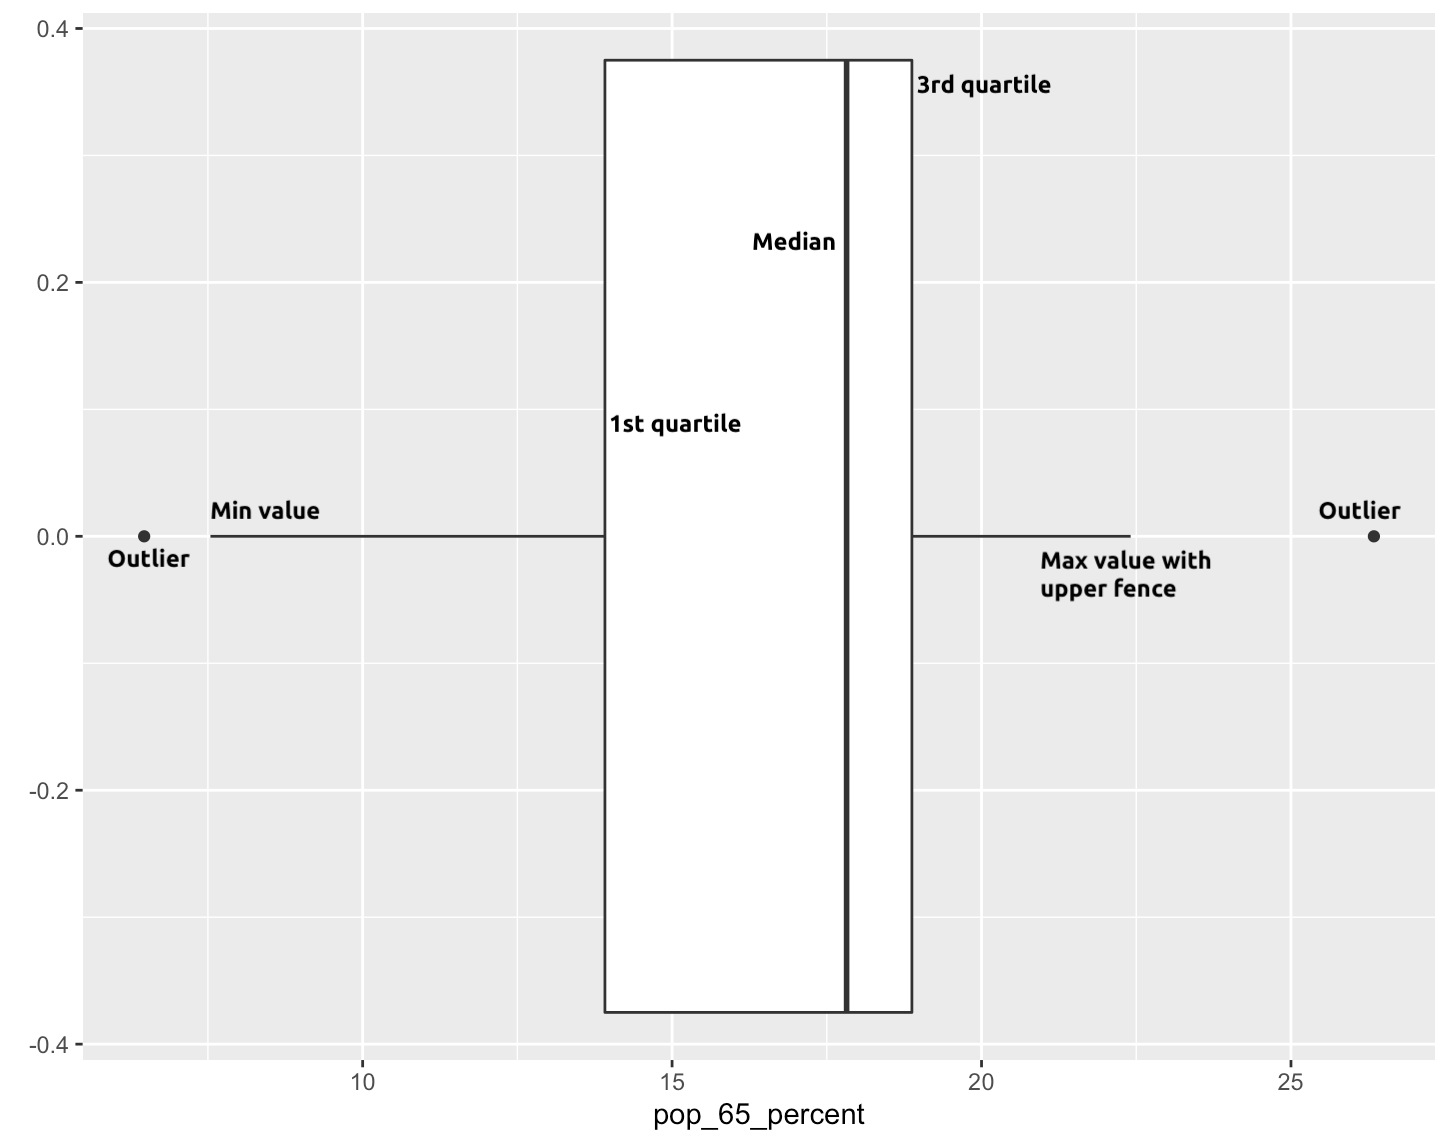
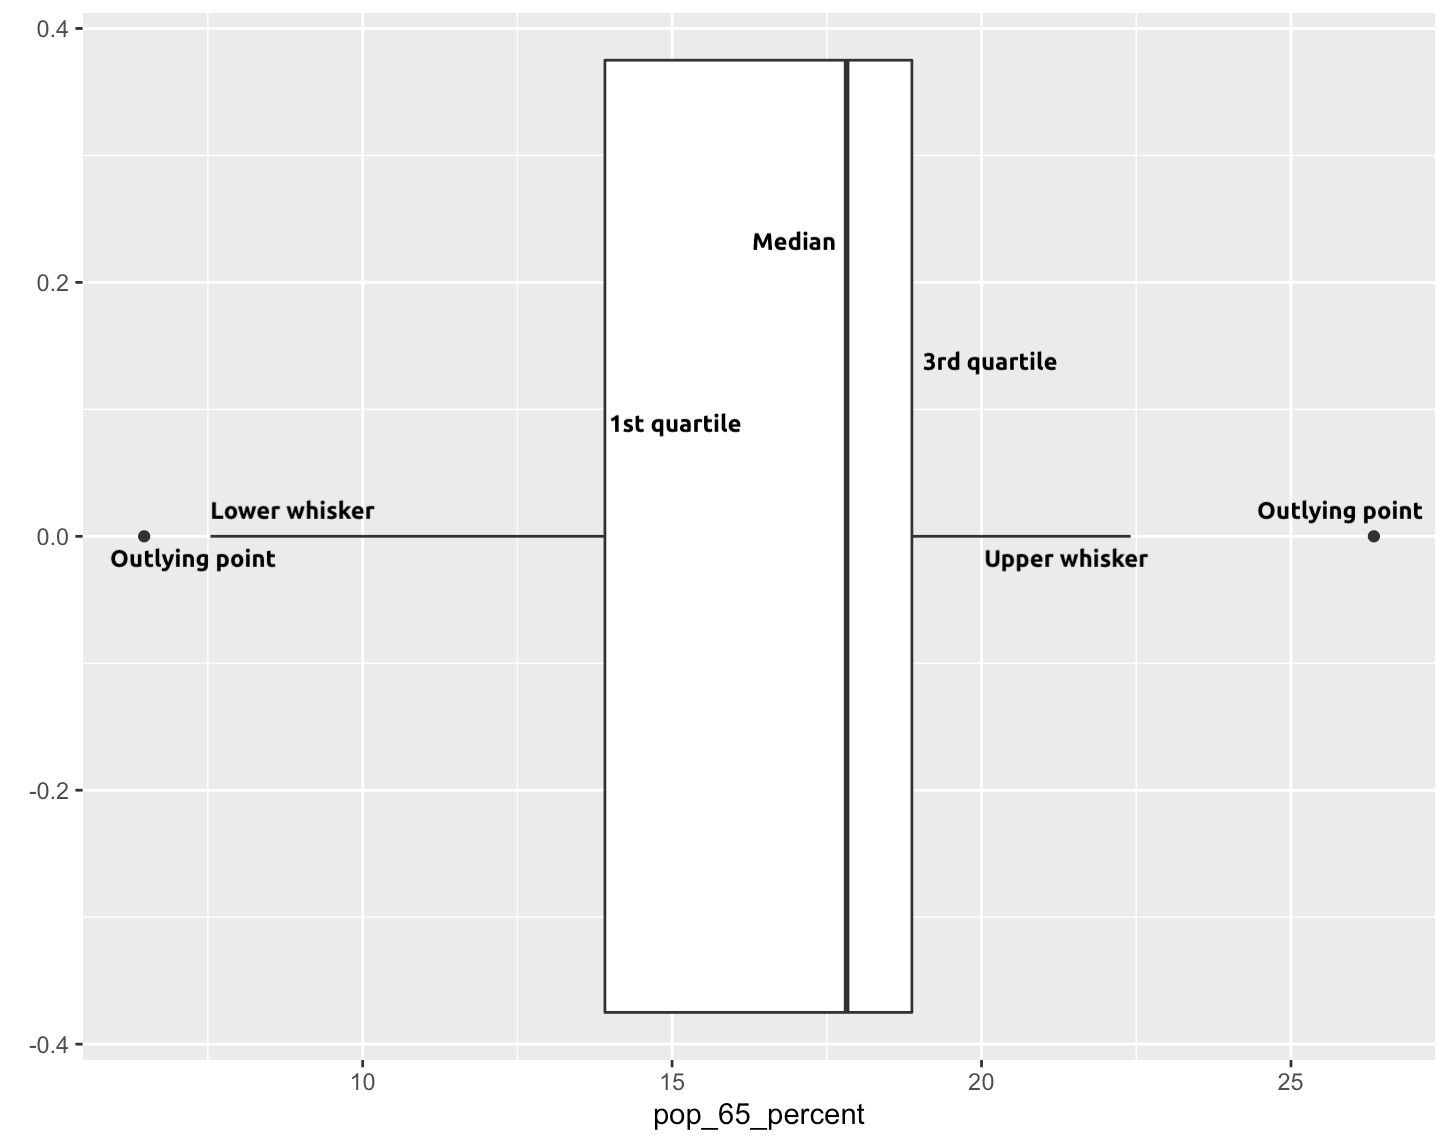
new image for step6

diff --git a/intro-ggplot2/step7.md b/intro-ggplot2/step7.md
@@ -1,0 +1,26 @@
+## Visualizing a single variable (cont.)
+
+Histograms are a great way to visualize the distribution of a single variable, but there are other `geom`s too. For example, the box-plot gives us a graph and quite a few summary statistics for any given numerical variable.
+
+Below is a box-plot of the `pop_65_percent` from the `Pensions` dataset. 
+
+```
+# the data 
+Pensions %>% 
+  # the variable 
+  ggplot2::qplot(x = pop_65_percent, 
+                 # the dot
+                 data = .,
+                 geom = "boxplot") 
+```{{execute}}
+
+The box-plot gives us an idea of `pop_65_percent`'s distribution by using the white box to show where the median (middle value), 1st and 3rd quartiles, higher/lower values, and outliers (see image below)
+
+### Box-plot summary statistics
+
+![](https://github.com/mjfrigaard/katacoda-scenarios/blob/master/figs/07-boxplot.png?raw=true)
+
+For more on the statistics displayed in the box-plot, read up on the [`geom_boxplot()` documentation](https://ggplot2.tidyverse.org/reference/geom_boxplot.html). 
+
+Other options for individual variables include the [`geom = "density"`](https://ggplot2.tidyverse.org/reference/geom_density.html) and [`geom = "violin"`](https://ggplot2.tidyverse.org/reference/geom_violin.html).
+
